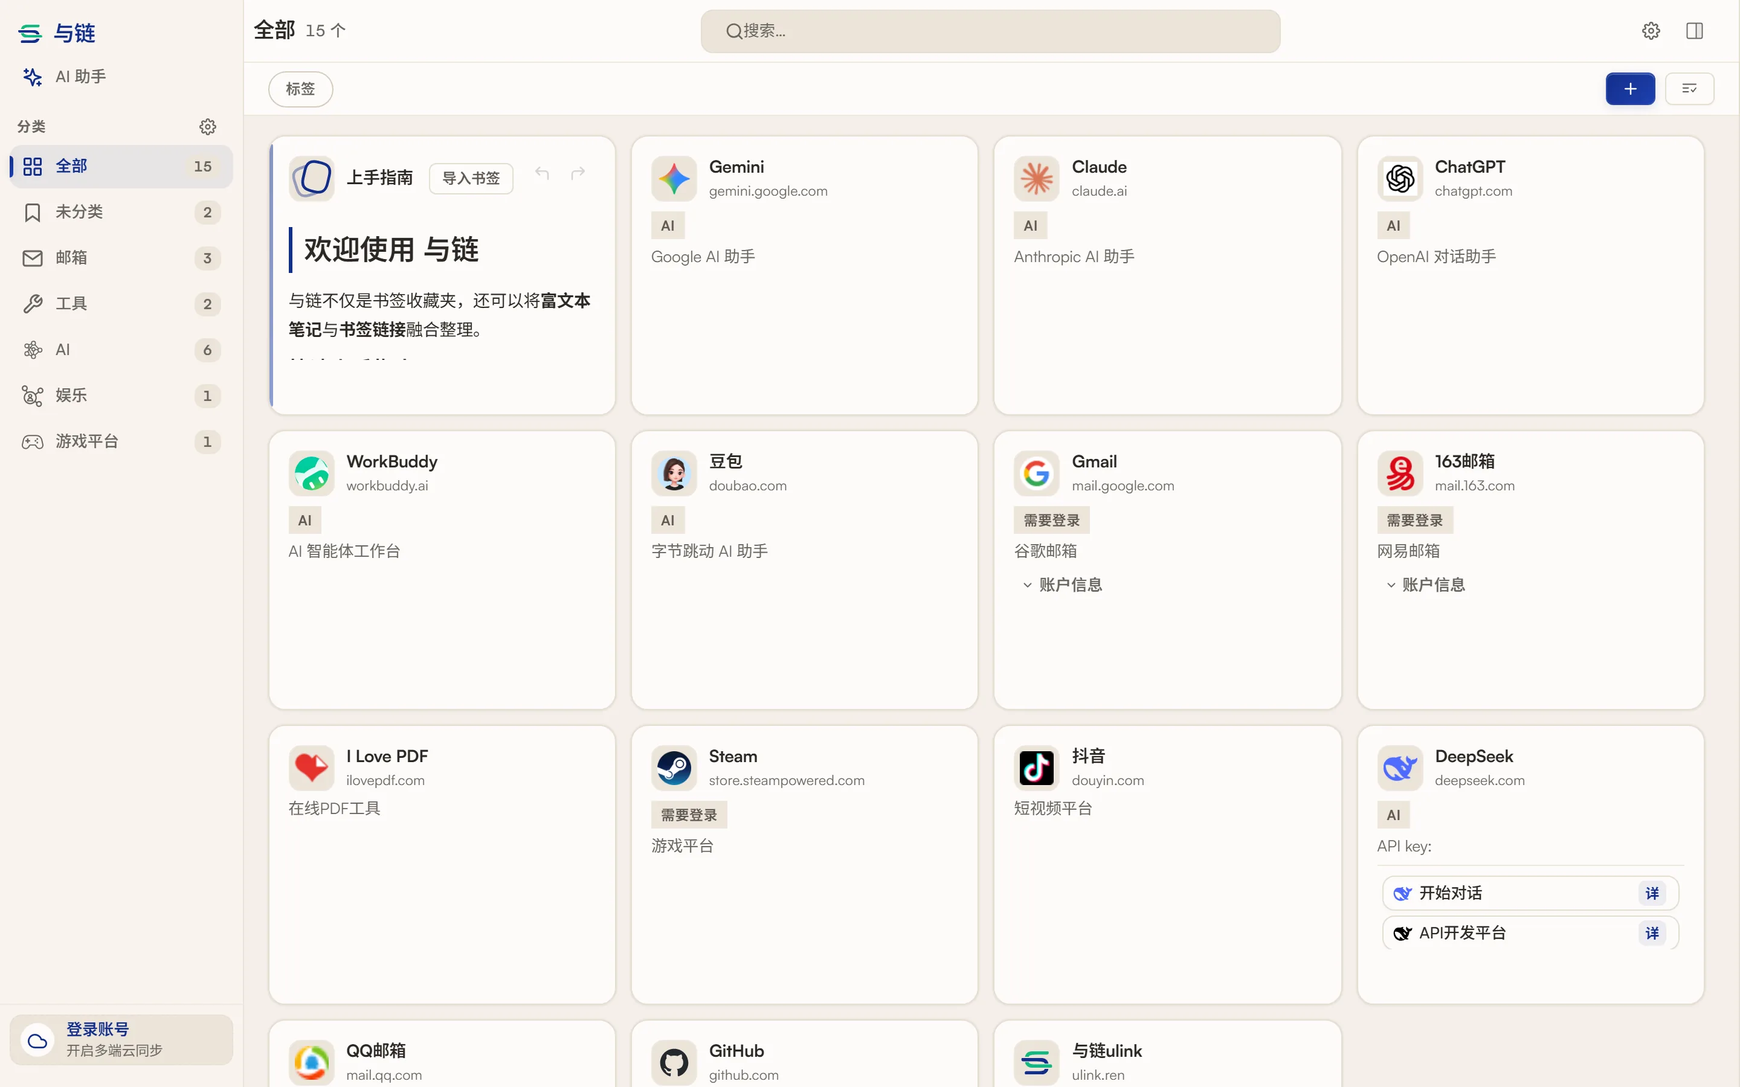
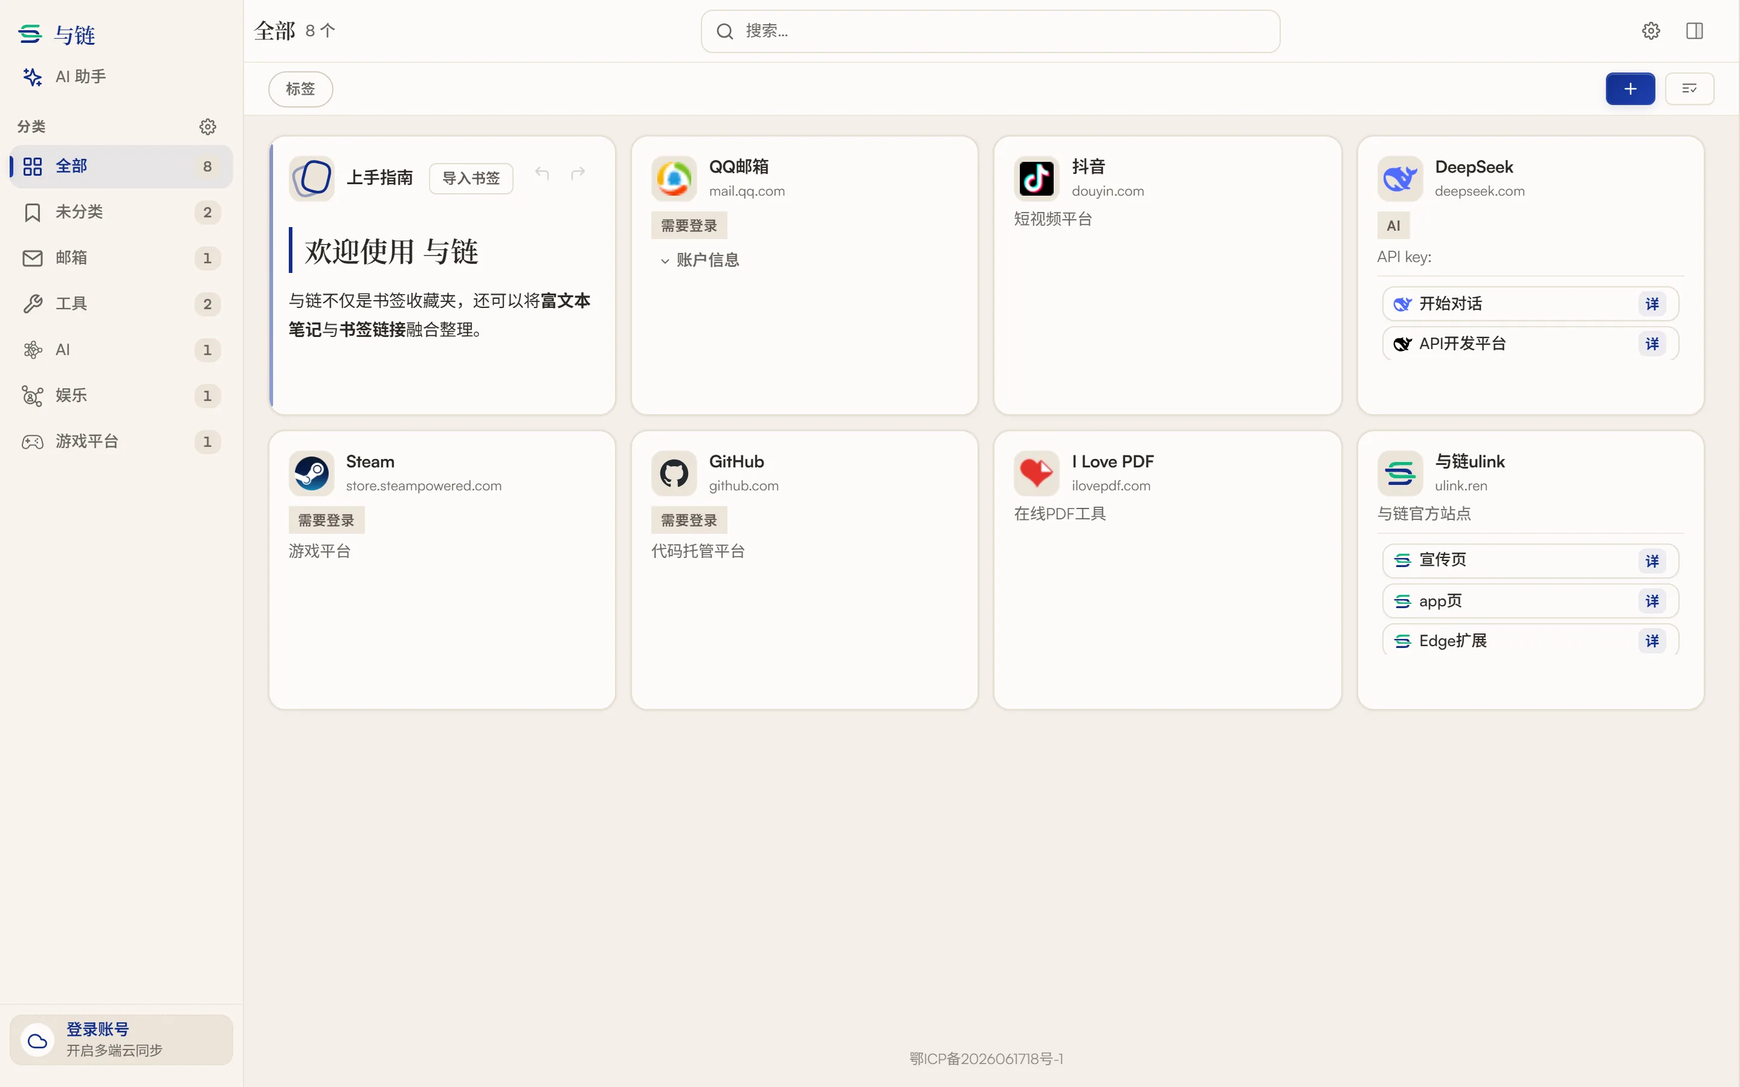
feat(seed): 初始书签精简为每类一个代表，按界面语言出两套；宣传页截图同步重拍
- 去掉重复演示同一功能的 163/豆包/WorkBuddy/ChatGPT/Claude/Gemini，顶层示例 13 → 6 条
- 邮箱与视频按首次打开时的语言区分：中文 QQ邮箱(b2)/抖音(b4)，英文 Gmail(b8)/YouTube(b14)；
  语言专属条目用不同 id，跨语言设备首次同步最多多出示例，不会把云端已有的示例互相覆盖
- 调整 order，首屏依次为 邮箱 → 视频 → DeepSeek → Steam → GitHub → I Love PDF
- 初始书签只在首次打开 / 重置数据时按当时语言生成，切换界面语言不改动书签
- 宣传页中英截图按新示例数据重拍

diff --git a/src/config/constants.ts b/src/config/constants.ts
@@ -73,22 +73,15 @@ export const DEFAULTS: AppData = {
     { id: 'game', name: '游戏平台', icon: 'game-icon', color: '#16a34a', order: 6 }
   ],
   bookmarks: [
-    { id: 'b1', title: 'GitHub', url: 'https://github.com', username: '', password: '', notes: '代码托管平台', icon: '', categoryId: 'tools', parentId: null, order: 0, useCount: 15, attributes: { 'requires-login': true }, isExpanded: false, createdAt: Date.now() - 86400000, updatedAt: Date.now() - 86400000 },
+    { id: 'b1', title: 'GitHub', url: 'https://github.com', username: '', password: '', notes: '代码托管平台', icon: '', categoryId: 'tools', parentId: null, order: 2, useCount: 15, attributes: { 'requires-login': true }, isExpanded: false, createdAt: Date.now() - 86400000, updatedAt: Date.now() - 86400000 },
     // D2-007：示例数据不放任何伪密码（原 base64「123」易被误用/误导）
-    { id: 'b2', title: 'QQ邮箱', url: 'https://mail.qq.com', username: '@qq.com', password: '', notes: '', icon: '', categoryId: 'email', parentId: null, order: 1, useCount: 8, attributes: { 'requires-login': true }, isExpanded: false, createdAt: Date.now() - 172800000, updatedAt: Date.now() - 172800000 },
-    { id: 'b3', title: 'DeepSeek', url: 'https://www.deepseek.com/', username: '', password: '', notes: 'API key:', icon: '', categoryId: 'ai', parentId: null, order: 2, useCount: 5, attributes: { 'ai': true }, isExpanded: false, createdAt: Date.now() - 40000000, updatedAt: Date.now() - 40000000 },
+    { id: 'b2', title: 'QQ邮箱', url: 'https://mail.qq.com', username: '@qq.com', password: '', notes: '', icon: '', categoryId: 'email', parentId: null, order: 6, useCount: 8, attributes: { 'requires-login': true }, isExpanded: false, createdAt: Date.now() - 172800000, updatedAt: Date.now() - 172800000 },
+    { id: 'b3', title: 'DeepSeek', url: 'https://www.deepseek.com/', username: '', password: '', notes: 'API key:', icon: '', categoryId: 'ai', parentId: null, order: 4, useCount: 5, attributes: { 'ai': true }, isExpanded: false, createdAt: Date.now() - 40000000, updatedAt: Date.now() - 40000000 },
     { id: 'sb1', title: '开始对话', url: 'https://chat.deepseek.com/', username: '', password: '', notes: '', icon: '', categoryId: 'ai', parentId: 'b3', order: 0, useCount: 3, attributes: { 'ai': true }, isExpanded: false, createdAt: Date.now() - 30000000, updatedAt: Date.now() - 30000000 },
     { id: 'sb2', title: 'API开发平台', url: 'https://platform.deepseek.com/usage', username: '', password: '', notes: '', icon: '', categoryId: 'ai', parentId: 'b3', order: 1, useCount: 2, attributes: { 'ai': true }, isExpanded: false, createdAt: Date.now() - 20000000, updatedAt: Date.now() - 20000000 },
-    { id: 'b4', title: '抖音', url: 'https://www.douyin.com', username: '', password: '', notes: '短视频平台', icon: '', categoryId: 'social', parentId: null, order: 3, useCount: 0, attributes: {}, isExpanded: false, createdAt: Date.now() - 345600000, updatedAt: Date.now() - 345600000 },
-    { id: 'b5', title: 'Steam', url: 'https://store.steampowered.com', username: '', password: '', notes: '游戏平台', icon: '', categoryId: 'game', parentId: null, order: 4, useCount: 0, attributes: { 'requires-login': true }, isExpanded: false, createdAt: Date.now() - 100000, updatedAt: Date.now() - 100000 },
-    { id: 'b6', title: 'I Love PDF', url: 'https://www.ilovepdf.com/', username: '', password: '', notes: '在线PDF工具', icon: '', categoryId: 'tools', parentId: null, order: 5, useCount: 0, attributes: {}, isExpanded: false, createdAt: Date.now() - 50000, updatedAt: Date.now() - 50000 },
-    { id: 'b7', title: '163邮箱', url: 'https://mail.163.com/', username: '@163.com', password: '', notes: '网易邮箱', icon: '', categoryId: 'email', parentId: null, order: 6, useCount: 0, attributes: { 'requires-login': true }, isExpanded: false, createdAt: Date.now() - 50000, updatedAt: Date.now() - 50000 },
-    { id: 'b8', title: 'Gmail', url: 'https://mail.google.com/', username: '@gmail.com', password: '', notes: '谷歌邮箱', icon: '', categoryId: 'email', parentId: null, order: 7, useCount: 0, attributes: { 'requires-login': true }, isExpanded: false, createdAt: Date.now() - 50000, updatedAt: Date.now() - 50000 },
-    { id: 'b9', title: '豆包', url: 'https://www.doubao.com/', username: '', password: '', notes: '字节跳动 AI 助手', icon: '', categoryId: 'ai', parentId: null, order: 8, useCount: 0, attributes: { 'ai': true }, isExpanded: false, createdAt: Date.now() - 50000, updatedAt: Date.now() - 50000 },
-    { id: 'b10', title: 'WorkBuddy', url: 'https://www.workbuddy.ai/', username: '', password: '', notes: 'AI 智能体工作台', icon: '', categoryId: 'ai', parentId: null, order: 9, useCount: 0, attributes: { 'ai': true }, isExpanded: false, createdAt: Date.now() - 50000, updatedAt: Date.now() - 50000 },
-    { id: 'b11', title: 'ChatGPT', url: 'https://chatgpt.com/', username: '', password: '', notes: 'OpenAI 对话助手', icon: '', categoryId: 'ai', parentId: null, order: 10, useCount: 0, attributes: { 'ai': true }, isExpanded: false, createdAt: Date.now() - 50000, updatedAt: Date.now() - 50000 },
-    { id: 'b12', title: 'Claude', url: 'https://claude.ai/', username: '', password: '', notes: 'Anthropic AI 助手', icon: '', categoryId: 'ai', parentId: null, order: 11, useCount: 0, attributes: { 'ai': true }, isExpanded: false, createdAt: Date.now() - 50000, updatedAt: Date.now() - 50000 },
-    { id: 'b13', title: 'Gemini', url: 'https://gemini.google.com/', username: '', password: '', notes: 'Google AI 助手', icon: '', categoryId: 'ai', parentId: null, order: 12, useCount: 0, attributes: { 'ai': true }, isExpanded: false, createdAt: Date.now() - 50000, updatedAt: Date.now() - 50000 }
+    { id: 'b4', title: '抖音', url: 'https://www.douyin.com', username: '', password: '', notes: '短视频平台', icon: '', categoryId: 'social', parentId: null, order: 5, useCount: 0, attributes: {}, isExpanded: false, createdAt: Date.now() - 345600000, updatedAt: Date.now() - 345600000 },
+    { id: 'b5', title: 'Steam', url: 'https://store.steampowered.com', username: '', password: '', notes: '游戏平台', icon: '', categoryId: 'game', parentId: null, order: 3, useCount: 0, attributes: { 'requires-login': true }, isExpanded: false, createdAt: Date.now() - 100000, updatedAt: Date.now() - 100000 },
+    { id: 'b6', title: 'I Love PDF', url: 'https://www.ilovepdf.com/', username: '', password: '', notes: '在线PDF工具', icon: '', categoryId: 'tools', parentId: null, order: 1, useCount: 0, attributes: {}, isExpanded: false, createdAt: Date.now() - 50000, updatedAt: Date.now() - 50000 },
   ],
   customAttributes: [
     { id: 'requires-login', name: '需要登录', type: 'boolean' },
@@ -133,16 +126,10 @@ export function buildSeedDefaults(locale?: Locale): AppData {
     ? {
         b1: 'Code hosting platform',
         b3: 'API key:',
-        b4: 'Short video platform',
         b5: 'Gaming platform',
-        b6: 'Online PDF tools',
-        b7: 'NetEase Mail',
         b8: 'Google Mail',
-        b9: 'ByteDance AI assistant',
-        b10: 'AI agent workspace',
-        b11: 'OpenAI conversational assistant',
-        b12: 'Anthropic AI assistant',
-        b13: 'Google AI assistant',
+        b14: 'Video platform',
+        b6: 'Online PDF tools',
       }
     : {
         b1: '代码托管平台',
@@ -150,13 +137,6 @@ export function buildSeedDefaults(locale?: Locale): AppData {
         b4: '短视频平台',
         b5: '游戏平台',
         b6: '在线PDF工具',
-        b7: '网易邮箱',
-        b8: '谷歌邮箱',
-        b9: '字节跳动 AI 助手',
-        b10: 'AI 智能体工作台',
-        b11: 'OpenAI 对话助手',
-        b12: 'Anthropic AI 助手',
-        b13: 'Google AI 助手',
       }
   const attrName = (id: string, zh: string, en: string): string => isEn ? en : zh
   const bmTitle = (id: string, zh: string, en: string): string => isEn ? en : zh
@@ -172,23 +152,30 @@ export function buildSeedDefaults(locale?: Locale): AppData {
       { id: 'social', name: catName('social'), icon: 'social-icon', color: '#1d9bf0', order: 5 },
       { id: 'game', name: catName('game'), icon: 'game-icon', color: '#16a34a', order: 6 },
     ],
+    // 示例书签只为演示功能，每个分类留一个代表（2026-11-25 精简：去掉重复演示同一功能的
+    // 163/豆包/WorkBuddy/ChatGPT/Claude/Gemini）。列表按 order 倒序显示，order 决定首屏：
+    // 邮箱 → 视频 → DeepSeek → Steam → GitHub → I Love PDF，与链官网书签 order 0 垫底。
+    // GitHub 与 I Love PDF 被上手指南正文内嵌引用（bookmarkIds），不可删。
+    //
+    // 邮箱与视频两条按首次打开时的界面语言出不同网站：中文 QQ邮箱(b2) / 抖音(b4)，英文 Gmail(b8) / YouTube(b14)。
+    // 这两条刻意用不同 id：同一账号在另一种语言的新设备上首次登录时，示例书签与云端按 id 合并，
+    // 共用 id 会让新设备那份（修改时间更新）把云端的 QQ邮箱 覆盖成 Gmail，等于悄悄改了用户数据；
+    // 不同 id 最坏只是多出两条另一语言的示例，删掉即可。b8 沿用旧版 Gmail 的 id，云端已删的墓地照常拦截复活。
+    // 初始书签只在首次打开 / 重置数据时按当时语言生成一次，之后切换界面语言不改动任何书签。
     bookmarks: [
-      { id: 'b1', title: bmTitle('b1', 'GitHub', 'GitHub'), url: 'https://github.com', username: '', password: '', notes: seedNotes.b1, icon: '', categoryId: 'tools', parentId: null, order: 0, useCount: 15, attributes: { 'requires-login': true }, isExpanded: false, createdAt: now - 86400000, updatedAt: now - 86400000 },
+      { id: 'b1', title: bmTitle('b1', 'GitHub', 'GitHub'), url: 'https://github.com', username: '', password: '', notes: seedNotes.b1, icon: '', categoryId: 'tools', parentId: null, order: 2, useCount: 15, attributes: { 'requires-login': true }, isExpanded: false, createdAt: now - 86400000, updatedAt: now - 86400000 },
       // D2-007：示例数据不放任何伪密码（原 base64「123」易被误用/误导）
-      { id: 'b2', title: bmTitle('b2', 'QQ邮箱', 'QQ Mail'), url: 'https://mail.qq.com', username: '@qq.com', password: '', notes: '', icon: '', categoryId: 'email', parentId: null, order: 1, useCount: 8, attributes: { 'requires-login': true }, isExpanded: false, createdAt: now - 172800000, updatedAt: now - 172800000 },
-      { id: 'b3', title: bmTitle('b3', 'DeepSeek', 'DeepSeek'), url: 'https://www.deepseek.com/', username: '', password: '', notes: seedNotes.b3, icon: '', categoryId: 'ai', parentId: null, order: 2, useCount: 5, attributes: { 'ai': true }, isExpanded: false, createdAt: now - 40000000, updatedAt: now - 40000000 },
+      isEn
+        ? { id: 'b8', title: 'Gmail', url: 'https://mail.google.com/', username: '@gmail.com', password: '', notes: seedNotes.b8, icon: '', categoryId: 'email', parentId: null, order: 6, useCount: 8, attributes: { 'requires-login': true }, isExpanded: false, createdAt: now - 172800000, updatedAt: now - 172800000 }
+        : { id: 'b2', title: 'QQ邮箱', url: 'https://mail.qq.com', username: '@qq.com', password: '', notes: '', icon: '', categoryId: 'email', parentId: null, order: 6, useCount: 8, attributes: { 'requires-login': true }, isExpanded: false, createdAt: now - 172800000, updatedAt: now - 172800000 },
+      { id: 'b3', title: bmTitle('b3', 'DeepSeek', 'DeepSeek'), url: 'https://www.deepseek.com/', username: '', password: '', notes: seedNotes.b3, icon: '', categoryId: 'ai', parentId: null, order: 4, useCount: 5, attributes: { 'ai': true }, isExpanded: false, createdAt: now - 40000000, updatedAt: now - 40000000 },
       { id: 'sb1', title: bmTitle('sb1', '开始对话', 'Start chat'), url: 'https://chat.deepseek.com/', username: '', password: '', notes: '', icon: '', categoryId: 'ai', parentId: 'b3', order: 0, useCount: 3, attributes: { 'ai': true }, isExpanded: false, createdAt: now - 30000000, updatedAt: now - 30000000 },
       { id: 'sb2', title: bmTitle('sb2', 'API开发平台', 'API platform'), url: 'https://platform.deepseek.com/usage', username: '', password: '', notes: '', icon: '', categoryId: 'ai', parentId: 'b3', order: 1, useCount: 2, attributes: { 'ai': true }, isExpanded: false, createdAt: now - 20000000, updatedAt: now - 20000000 },
-      { id: 'b4', title: bmTitle('b4', '抖音', 'Douyin'), url: 'https://www.douyin.com', username: '', password: '', notes: seedNotes.b4, icon: '', categoryId: 'social', parentId: null, order: 3, useCount: 0, attributes: {}, isExpanded: false, createdAt: now - 345600000, updatedAt: now - 345600000 },
-      { id: 'b5', title: bmTitle('b5', 'Steam', 'Steam'), url: 'https://store.steampowered.com', username: '', password: '', notes: seedNotes.b5, icon: '', categoryId: 'game', parentId: null, order: 4, useCount: 0, attributes: { 'requires-login': true }, isExpanded: false, createdAt: now - 100000, updatedAt: now - 100000 },
-      { id: 'b6', title: bmTitle('b6', 'I Love PDF', 'I Love PDF'), url: 'https://www.ilovepdf.com/', username: '', password: '', notes: seedNotes.b6, icon: '', categoryId: 'tools', parentId: null, order: 5, useCount: 0, attributes: {}, isExpanded: false, createdAt: now - 50000, updatedAt: now - 50000 },
-      { id: 'b7', title: bmTitle('b7', '163邮箱', '163 Mail'), url: 'https://mail.163.com/', username: '@163.com', password: '', notes: seedNotes.b7, icon: '', categoryId: 'email', parentId: null, order: 6, useCount: 0, attributes: { 'requires-login': true }, isExpanded: false, createdAt: now - 50000, updatedAt: now - 50000 },
-      { id: 'b8', title: bmTitle('b8', 'Gmail', 'Gmail'), url: 'https://mail.google.com/', username: '@gmail.com', password: '', notes: seedNotes.b8, icon: '', categoryId: 'email', parentId: null, order: 7, useCount: 0, attributes: { 'requires-login': true }, isExpanded: false, createdAt: now - 50000, updatedAt: now - 50000 },
-      { id: 'b9', title: bmTitle('b9', '豆包', 'Doubao'), url: 'https://www.doubao.com/', username: '', password: '', notes: seedNotes.b9, icon: '', categoryId: 'ai', parentId: null, order: 8, useCount: 0, attributes: { 'ai': true }, isExpanded: false, createdAt: now - 50000, updatedAt: now - 50000 },
-      { id: 'b10', title: bmTitle('b10', 'WorkBuddy', 'WorkBuddy'), url: 'https://www.workbuddy.ai/', username: '', password: '', notes: seedNotes.b10, icon: '', categoryId: 'ai', parentId: null, order: 9, useCount: 0, attributes: { 'ai': true }, isExpanded: false, createdAt: now - 50000, updatedAt: now - 50000 },
-      { id: 'b11', title: bmTitle('b11', 'ChatGPT', 'ChatGPT'), url: 'https://chatgpt.com/', username: '', password: '', notes: seedNotes.b11, icon: '', categoryId: 'ai', parentId: null, order: 10, useCount: 0, attributes: { 'ai': true }, isExpanded: false, createdAt: now - 50000, updatedAt: now - 50000 },
-      { id: 'b12', title: bmTitle('b12', 'Claude', 'Claude'), url: 'https://claude.ai/', username: '', password: '', notes: seedNotes.b12, icon: '', categoryId: 'ai', parentId: null, order: 11, useCount: 0, attributes: { 'ai': true }, isExpanded: false, createdAt: now - 50000, updatedAt: now - 50000 },
-      { id: 'b13', title: bmTitle('b13', 'Gemini', 'Gemini'), url: 'https://gemini.google.com/', username: '', password: '', notes: seedNotes.b13, icon: '', categoryId: 'ai', parentId: null, order: 12, useCount: 0, attributes: { 'ai': true }, isExpanded: false, createdAt: now - 50000, updatedAt: now - 50000 },
+      isEn
+        ? { id: 'b14', title: 'YouTube', url: 'https://www.youtube.com/', username: '', password: '', notes: seedNotes.b14, icon: '', categoryId: 'social', parentId: null, order: 5, useCount: 0, attributes: {}, isExpanded: false, createdAt: now - 345600000, updatedAt: now - 345600000 }
+        : { id: 'b4', title: '抖音', url: 'https://www.douyin.com', username: '', password: '', notes: seedNotes.b4, icon: '', categoryId: 'social', parentId: null, order: 5, useCount: 0, attributes: {}, isExpanded: false, createdAt: now - 345600000, updatedAt: now - 345600000 },
+      { id: 'b5', title: bmTitle('b5', 'Steam', 'Steam'), url: 'https://store.steampowered.com', username: '', password: '', notes: seedNotes.b5, icon: '', categoryId: 'game', parentId: null, order: 3, useCount: 0, attributes: { 'requires-login': true }, isExpanded: false, createdAt: now - 100000, updatedAt: now - 100000 },
+      { id: 'b6', title: bmTitle('b6', 'I Love PDF', 'I Love PDF'), url: 'https://www.ilovepdf.com/', username: '', password: '', notes: seedNotes.b6, icon: '', categoryId: 'tools', parentId: null, order: 1, useCount: 0, attributes: {}, isExpanded: false, createdAt: now - 50000, updatedAt: now - 50000 },
     ],
     customAttributes: [
       { id: 'requires-login', name: attrName('requires-login', '需要登录', 'Requires login'), type: 'boolean' },

diff --git a/src/__tests__/config/constants.test.ts b/src/__tests__/config/constants.test.ts
@@ -32,6 +32,7 @@ import {
   ACTIONS,
   DEFAULTS,
   WELCOME_NOTES,
+  buildSeedDefaults,
 } from '../../config/constants.js'
 
 describe('config/constants.ts — 应用层常量快照护栏（精简版）', () => {
@@ -112,14 +113,15 @@ describe('config/constants.ts — 应用层常量快照护栏（精简版）', (
     }
   })
 
-  it('DEFAULTS.bookmarks 15 项 id 唯一 + 父子结构(parentId=null 顶层, sb1/sb2→b3) + categoryId 无悬空', () => {
+  it('DEFAULTS.bookmarks 8 项 id 唯一 + 父子结构(parentId=null 顶层, sb1/sb2→b3) + categoryId 无悬空', () => {
     const bms = DEFAULTS.bookmarks
-    expect(bms.length).toBe(15)
+    expect(bms.length).toBe(8)
     const ids = bms.map((b) => b.id)
     expect(new Set(ids).size).toBe(ids.length)
     const top = bms.filter((b) => b.parentId === null).map((b) => b.id).sort()
     const sub = bms.filter((b) => b.parentId !== null)
-    expect(top).toEqual(['b1', 'b10', 'b11', 'b12', 'b13', 'b2', 'b3', 'b4', 'b5', 'b6', 'b7', 'b8', 'b9'])
+    // 每个分类一个代表（2026-11-25 精简），且上手指南内嵌引用的 b1 / b6 必须在
+    expect(top).toEqual(['b1', 'b2', 'b3', 'b4', 'b5', 'b6'])
     expect(sub.map((b) => b.parentId)).toEqual(['b3', 'b3'])
     expect(sub.map((b) => b.id).sort()).toEqual(['sb1', 'sb2'])
     const catIds = new Set(DEFAULTS.categories.map((c) => c.id))
@@ -150,5 +152,50 @@ describe('config/constants.ts — 应用层常量快照护栏（精简版）', (
     expect(welcome.name).toBe('上手指南')
     expect(welcome.notes).toBe(WELCOME_NOTES)
     expect(welcome.bookmarkIds).toEqual(['b1', 'b6'])
+  })
+
+  describe('buildSeedDefaults：初始书签按界面语言出两套（2026-11-25）', () => {
+    const zh = buildSeedDefaults('zh-CN')
+    const en = buildSeedDefaults('en-US')
+    const top = (d: typeof zh) => d.bookmarks.filter((b) => b.parentId === null)
+
+    it('中文：QQ邮箱 / 抖音；英文：Gmail / YouTube，其余共用', () => {
+      const zhUrls = top(zh).map((b) => b.url)
+      const enUrls = top(en).map((b) => b.url)
+      expect(zhUrls).toEqual(expect.arrayContaining(['https://mail.qq.com', 'https://www.douyin.com']))
+      expect(enUrls).toEqual(expect.arrayContaining(['https://mail.google.com/', 'https://www.youtube.com/']))
+      expect(zhUrls.some((u) => /google|youtube/.test(u))).toBe(false)
+      expect(enUrls.some((u) => /qq\.com|douyin/.test(u))).toBe(false)
+      // 两套各 6 条顶层，DeepSeek 子书签结构一致
+      expect(top(zh)).toHaveLength(6)
+      expect(top(en)).toHaveLength(6)
+      for (const d of [zh, en]) {
+        expect(d.bookmarks.filter((b) => b.parentId === 'b3').map((b) => b.id).sort()).toEqual(['sb1', 'sb2'])
+      }
+    })
+
+    it('★语言专属条目用不同 id、共用条目 id 一致：跨语言设备首次同步只会多出示例，不会互相覆盖', () => {
+      const zhById = new Map(zh.bookmarks.map((b) => [b.id, b.url]))
+      const enById = new Map(en.bookmarks.map((b) => [b.id, b.url]))
+      for (const [id, url] of zhById) {
+        if (enById.has(id)) expect(enById.get(id), `id ${id} 在中英两套里必须指向同一网站`).toBe(url)
+      }
+      expect(zhById.has('b2') && zhById.has('b4')).toBe(true)
+      expect(enById.has('b8') && enById.has('b14')).toBe(true)
+      expect(enById.has('b2') || enById.has('b4') || zhById.has('b8') || zhById.has('b14')).toBe(false)
+    })
+
+    it('首屏顺序（按 order 倒序显示）：邮箱 → 视频 → DeepSeek → Steam → GitHub → I Love PDF', () => {
+      const firstScreen = (d: typeof zh) => top(d).sort((a, b) => b.order - a.order).map((b) => b.categoryId)
+      expect(firstScreen(zh)).toEqual(['email', 'social', 'ai', 'game', 'tools', 'tools'])
+      expect(firstScreen(en)).toEqual(['email', 'social', 'ai', 'game', 'tools', 'tools'])
+    })
+
+    it('上手指南内嵌引用的 b1 / b6 两套都在', () => {
+      for (const d of [zh, en]) {
+        const ids = new Set(d.bookmarks.map((b) => b.id))
+        for (const ref of d.siblingGroups[0].bookmarkIds) expect(ids.has(ref)).toBe(true)
+      }
+    })
   })
 })

diff --git a/e2e/app.spec.ts b/e2e/app.spec.ts
@@ -32,7 +32,7 @@ test.describe('LinkVault 核心功能', () => {
     // 默认数据至少有一张卡
     await expect(page.locator('.bookmark-card, .group-card, .card').first()).toBeVisible({ timeout: 10000 })
     // 内容断言：默认种子书签确实渲染出标题（不是空壳卡片）；正则覆盖多张默认卡更抗数据微调
-    await expect(page.getByTestId('lv-card-grid')).toContainText(/Steam|抖音|DeepSeek|Gmail/)
+    await expect(page.getByTestId('lv-card-grid')).toContainText(/Steam|抖音|DeepSeek|QQ邮箱/)
   })
 
   test('分类导航工作', async ({ page }) => {
